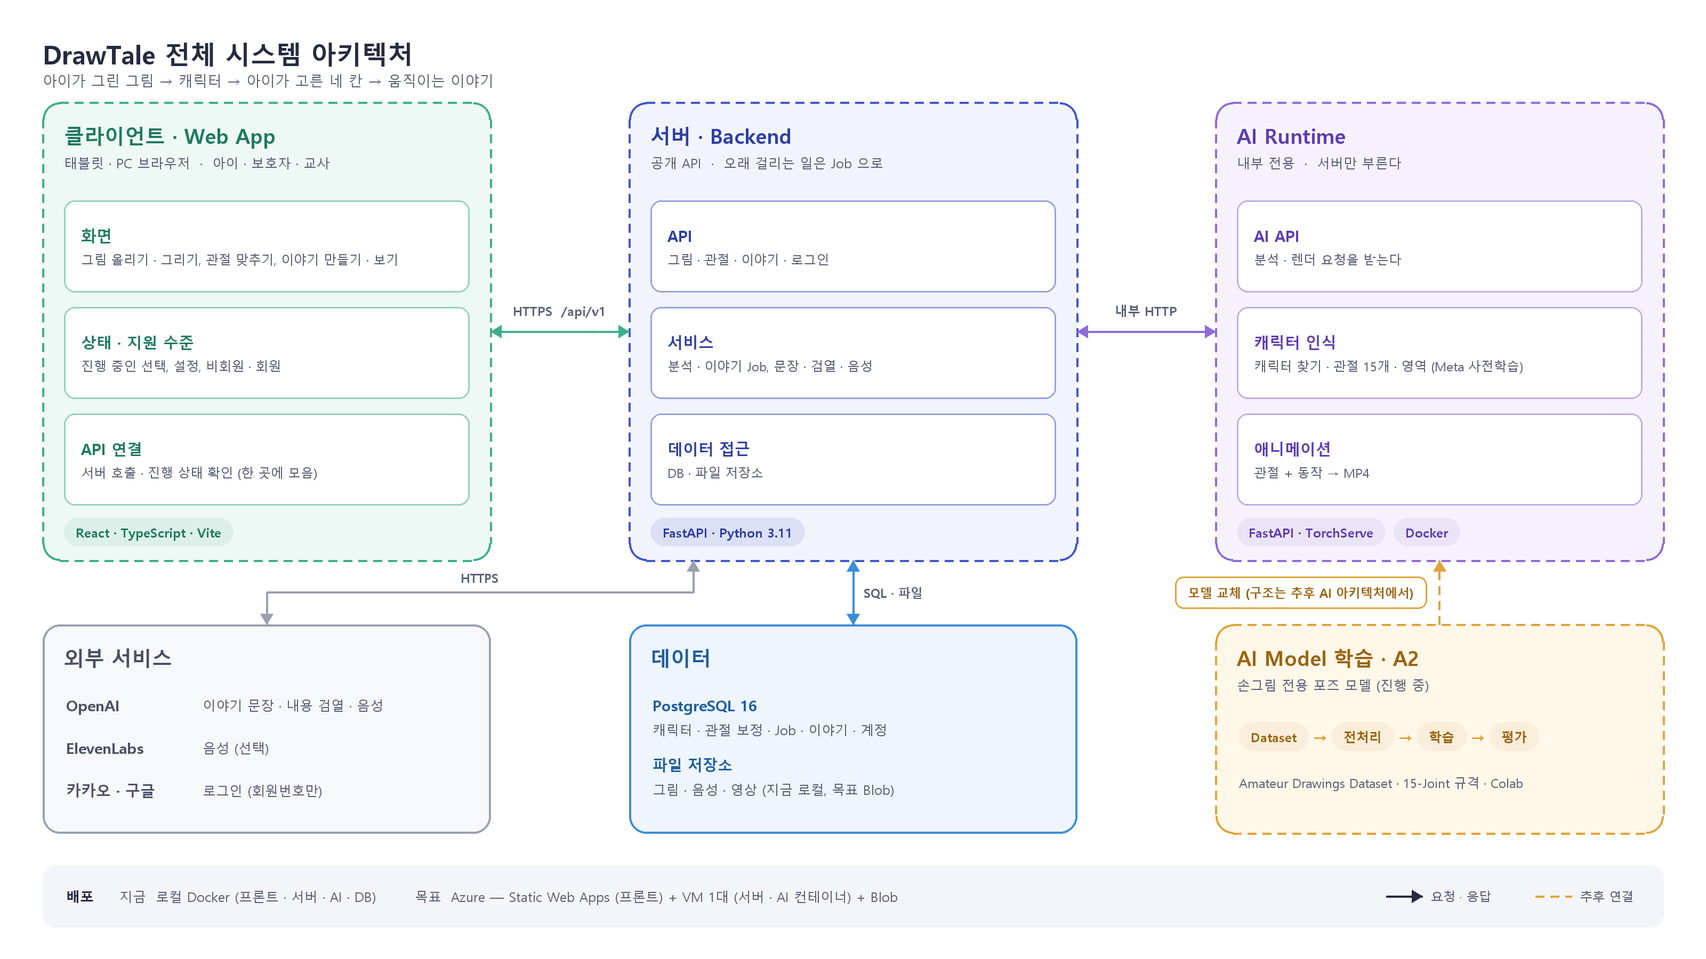
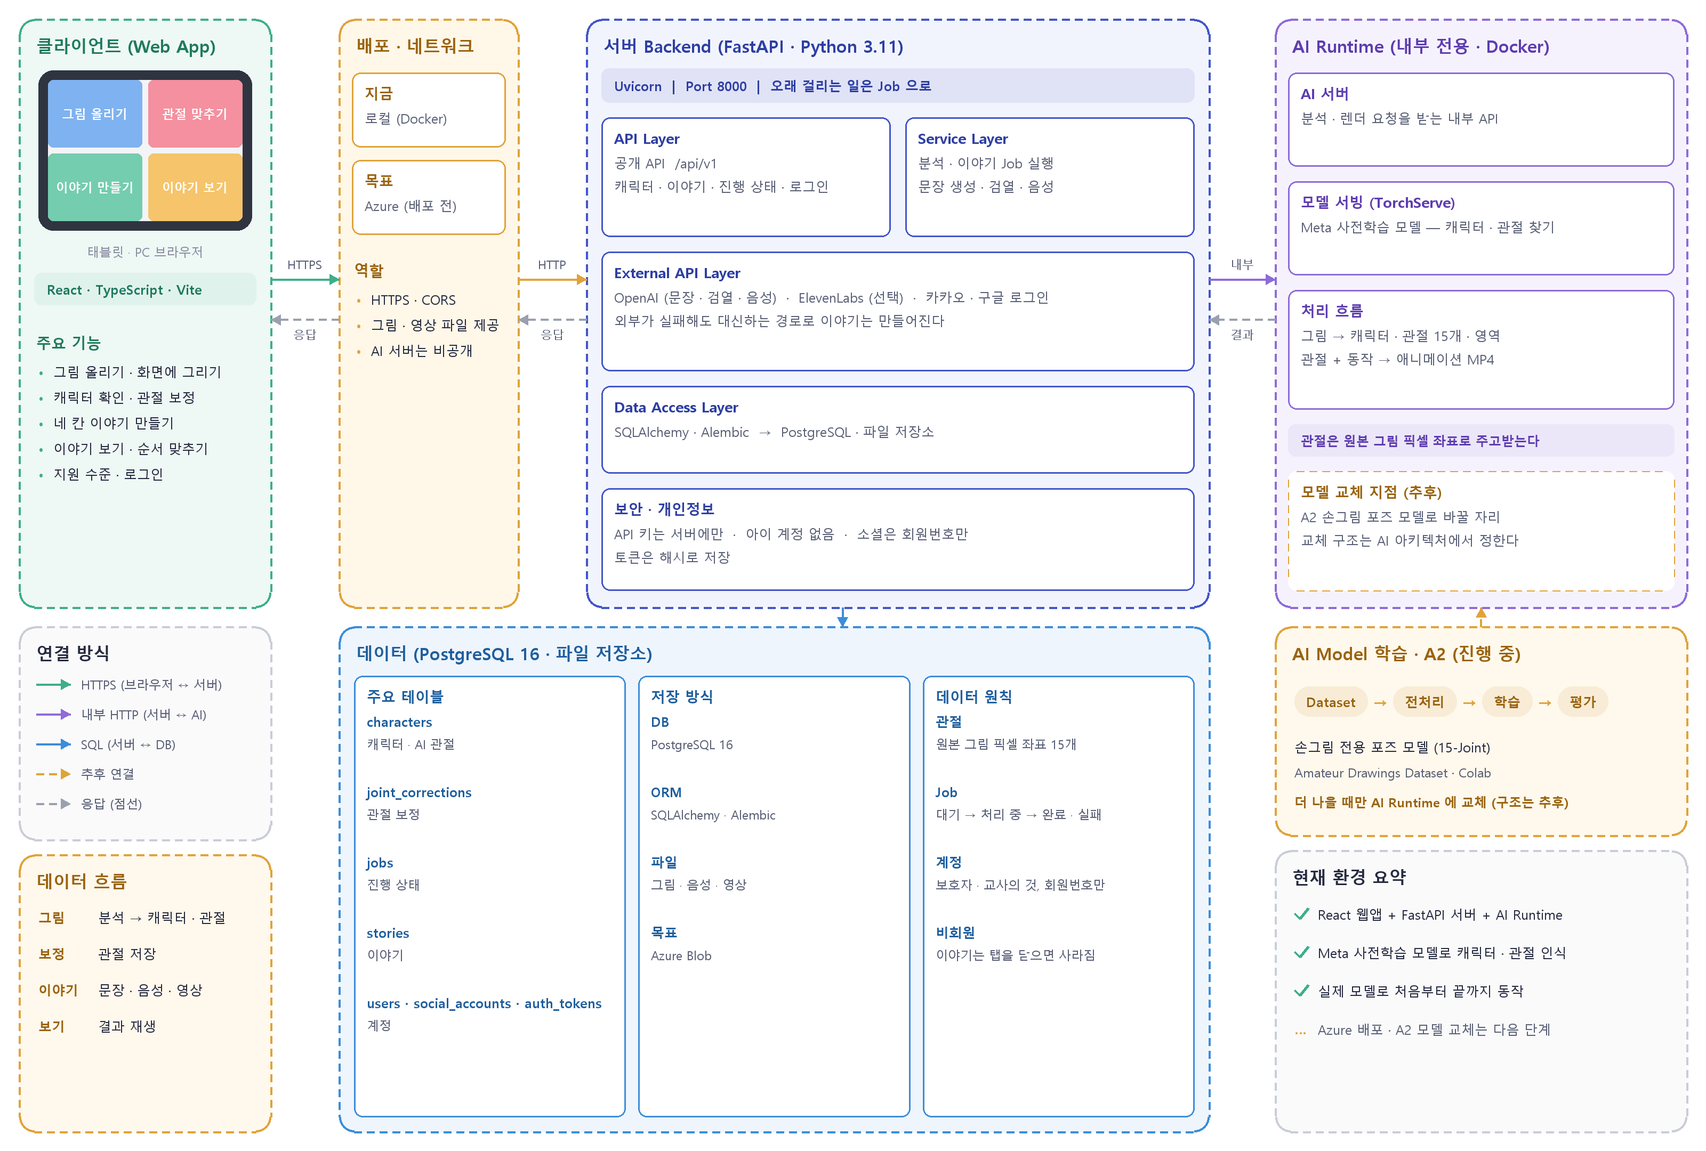
docs: 시스템 아키텍처를 처음 포스터 구조로 되돌리고 칸마다 큰 틀만
- 클라이언트 · 배포/네트워크 · 서버 계층(API · Service · External API · Data Access · 보안) · AI Runtime ·
  데이터 · 연결 방식 · 데이터 흐름 · 환경 요약 구조는 유지
- 엔드포인트 · 모듈 이름 · 컬럼 · 처리 시간 같은 세부 나열은 빼고 한두 줄 설명으로
- AI Model 학습(A2)을 오른쪽 아래에 넣고, AI Runtime 안에 「모델 교체 지점 (추후)」 점선 칸

diff --git a/tools/make_architecture.py b/tools/make_architecture.py
@@ -1,9 +1,9 @@
 """전체 시스템 아키텍처 한 장 그림 (01-system-architecture.md, 발표 자료용).
 
-    python tools/make_architecture.py      # assets/architecture/system-architecture.png (16:9)
+    python tools/make_architecture.py      # assets/architecture/system-architecture.png
 
-전체 구조가 한눈에 보이도록 영역과 계층만 그린다. 엔드포인트 · 모듈 · 컬럼 같은 세부는 01 문서 본문에 있다.
-교체할 손그림 포즈 모델(A2)의 구조는 아직 정하지 않았다 — 「AI 아키텍처」 문서에서 따로 다룬다.
+영역과 계층은 다 보이게 두되, 칸마다 큰 틀만 적는다. 엔드포인트 · 모듈 · 컬럼 같은 세부는 01 문서 본문에 있다.
+AI Model 학습(A2)이 바꿀 포즈 모델의 구조는 아직 정하지 않았다 — 「08 AI 아키텍처」에서 다룬다.
 """
 
 from functools import lru_cache
@@ -15,17 +15,19 @@ ROOT = Path(__file__).resolve().parent.parent
 OUT = ROOT / "assets" / "architecture"
 
 S = 2
-W, H = 1600, 900
+W, H = 1600, 1080
 
 INK, SOFT, FAINT, WHITE = "#262B40", "#5B6177", "#8A90A3", "#FFFFFF"
 ZONE = {  # 테두리, 바탕, 제목 글자
     "client": ("#3FAE8A", "#EEF8F4", "#1F7A5E"),
+    "net": ("#E0A33B", "#FFF7E8", "#9A6410"),
     "server": ("#4256C8", "#F2F4FD", "#2E3FA3"),
     "ai": ("#8E6BD8", "#F6F2FD", "#5E3DB0"),
-    "model": ("#E0A33B", "#FFF7E8", "#9A6410"),
-    "data": ("#3C8DD9", "#EEF5FC", "#1F5F9E"),
-    "ext": ("#9AA0AE", "#F7F8FA", "#4A5065"),
+    "db": ("#3C8DD9", "#EEF5FC", "#1F5F9E"),
+    "model": ("#E0A33B", "#FFF8EC", "#9A6410"),
+    "plain": ("#C9CDD6", "#FAFAFB", INK),
 }
+STAGE = ["#7FB2F0", "#F4909F", "#74CDAE", "#F5C46B"]
 
 FONT_DIRS = [Path("C:/Windows/Fonts"), Path("/usr/share/fonts/truetype/nanum"), Path("/Library/Fonts")]
 FONT_FILES = {False: ["malgun.ttf", "NanumGothic.ttf"], True: ["malgunbd.ttf", "NanumGothicBold.ttf"]}
@@ -46,7 +48,11 @@ P = lambda x, y: (x * S, y * S)
 B = lambda x, y, w, h: [x * S, y * S, (x + w) * S, (y + h) * S]
 
 
-def text(x, y, s, size=14, bold=False, color=INK, anchor="la"):
+def tw(s, size, bold=False):
+    return d.textlength(s, font=font(size, bold)) / S
+
+
+def text(x, y, s, size=13, bold=False, color=INK, anchor="la"):
     d.text(P(x, y), s, font=font(size, bold), fill=color, anchor=anchor)
 
 
@@ -55,7 +61,7 @@ def blend(hexcolor, a):
     return tuple(int(255 + (v - 255) * a) for v in c)
 
 
-def dashes(x1, y1, x2, y2, color, width=2, on=8, off=6):
+def dashes(x1, y1, x2, y2, color, width=2, on=7, off=5):
     import math
     L = math.hypot(x2 - x1, y2 - y1)
     ux, uy = (x2 - x1) / L, (y2 - y1) / L
@@ -66,144 +72,189 @@ def dashes(x1, y1, x2, y2, color, width=2, on=8, off=6):
         p += on + off
 
 
-def zone(x, y, w, h, kind, title, sub=None, dashed=True):
+def zone(x, y, w, h, kind, title):
     line, fill, tc = ZONE[kind]
-    r = 16
+    r = 14
     d.rounded_rectangle(B(x, y, w, h), radius=r * S, fill=fill)
+    for (a, b, c, e) in ((x + r, y, x + w - r, y), (x + r, y + h, x + w - r, y + h),
+                         (x, y + r, x, y + h - r), (x + w, y + r, x + w, y + h - r)):
+        dashes(a, b, c, e, line)
+    for (cx, cy, a0) in ((x, y, 180), (x + w - 2 * r, y, 270), (x + w - 2 * r, y + h - 2 * r, 0), (x, y + h - 2 * r, 90)):
+        d.arc(B(cx, cy, 2 * r, 2 * r), a0, a0 + 90, fill=line, width=2 * S)
+    text(x + 16, y + 14, title, 16, True, tc)
+
+
+def box(x, y, w, h, kind, title, lines=(), dashed=False, size=12.5):
+    """계층 하나. 제목 + 큰 틀 한두 줄"""
+    line, _, tc = ZONE[kind]
     if dashed:
-        for (a, b, c, e) in ((x + r, y, x + w - r, y), (x + r, y + h, x + w - r, y + h),
-                             (x, y + r, x, y + h - r), (x + w, y + r, x + w, y + h - r)):
-            dashes(a, b, c, e, line)
-        for (cx, cy, a0) in ((x, y, 180), (x + w - 2 * r, y, 270), (x + w - 2 * r, y + h - 2 * r, 0), (x, y + h - 2 * r, 90)):
-            d.arc(B(cx, cy, 2 * r, 2 * r), a0, a0 + 90, fill=line, width=2 * S)
+        d.rounded_rectangle(B(x, y, w, h), radius=8 * S, fill=WHITE)
+        for (a, b, c, e) in ((x + 8, y, x + w - 8, y), (x + 8, y + h, x + w - 8, y + h), (x, y + 8, x, y + h - 8), (x + w, y + 8, x + w, y + h - 8)):
+            dashes(a, b, c, e, line, 1)
     else:
-        d.rounded_rectangle(B(x, y, w, h), radius=r * S, outline=line, width=2 * S)
-    text(x + 20, y + 18, title, 19, True, tc)
-    if sub:
-        text(x + 20, y + 48, sub, 12.5, False, SOFT)
+        d.rounded_rectangle(B(x, y, w, h), radius=8 * S, fill=WHITE, outline=line, width=int(1.5 * S))
+    text(x + 12, y + 10, title, 13.5, True, tc)
+    for i, ln in enumerate(lines):
+        text(x + 12, y + 34 + i * 22, ln, size, False, SOFT)
 
 
-def layer(x, y, w, h, kind, name, desc):
+def bar(x, y, w, h, kind, s, size=12.5):
     line, _, tc = ZONE[kind]
-    d.rounded_rectangle(B(x, y, w, h), radius=10 * S, fill=WHITE, outline=blend(line, 0.55), width=int(1.5 * S))
-    text(x + 16, y + h / 2 - 10, name, 14.5, True, tc, anchor="lm")
-    text(x + 16, y + h / 2 + 12, desc, 12, False, SOFT, anchor="lm")
+    d.rounded_rectangle(B(x, y, w, h), radius=7 * S, fill=blend(line, 0.16))
+    text(x + 12, y + h / 2, s, size, True, tc, anchor="lm")
 
 
-def chip(x, y, s, kind):
-    line, _, tc = ZONE[kind]
-    w = d.textlength(s, font=font(12, True)) / S + 22
-    d.rounded_rectangle(B(x, y, w, 26), radius=13 * S, fill=blend(line, 0.18))
-    text(x + w / 2, y + 13, s, 12, True, tc, anchor="mm")
-    return w
+def bullets(x, y, rows, kind, size=12.5, gap=24):
+    for i, r in enumerate(rows):
+        text(x, y + i * gap, "•", size, True, ZONE[kind][0])
+        text(x + 14, y + i * gap, r, size, False, INK)
 
 
-def arrow(x1, y1, x2, y2, color, dashed=False, both=False, label=None, lx=None, ly=None, lcolor=SOFT):
-    (dashes if dashed else (lambda a, b, c, e, col, wd=2: d.line([P(a, b), P(c, e)], fill=col, width=wd * S)))(x1, y1, x2, y2, color, 2)
-
-    def head(xa, ya, xb, yb):
-        hd = 10
-        if xb != xa:
-            g = 1 if xb > xa else -1
-            d.polygon([P(xb, yb), P(xb - g * hd, yb - 6), P(xb - g * hd, yb + 6)], fill=color)
-        else:
-            g = 1 if yb > ya else -1
-            d.polygon([P(xb, yb), P(xb - 6, yb - g * hd), P(xb + 6, yb - g * hd)], fill=color)
-    head(x1, y1, x2, y2)
-    if both:
-        head(x2, y2, x1, y1)
+def arrow(x1, y1, x2, y2, color, dashed=False, label=None, ly=None):
+    if dashed:
+        dashes(x1, y1, x2, y2, color, 2)
+    else:
+        d.line([P(x1, y1), P(x2, y2)], fill=color, width=2 * S)
+    hd = 9
+    if x2 != x1:
+        g = 1 if x2 > x1 else -1
+        d.polygon([P(x2, y2), P(x2 - g * hd, y2 - 5), P(x2 - g * hd, y2 + 5)], fill=color)
+    else:
+        g = 1 if y2 > y1 else -1
+        d.polygon([P(x2, y2), P(x2 - 5, y2 - g * hd), P(x2 + 5, y2 - g * hd)], fill=color)
     if label:
-        text(lx if lx is not None else (x1 + x2) / 2, ly if ly is not None else (y1 + y2) / 2 - 16, label, 12, True, lcolor, anchor="mm")
+        text((x1 + x2) / 2, ly, label, 11, False, SOFT, anchor="mm")
 
 
-# ─────────── 위: 서비스가 도는 세 영역 ───────────
-TY, TH = 96, 430
-CX, CWD = 40, 420
-SX, SWD = 590, 420
-AX, AWD = 1140, 420
-LH, LG = 86, 14
-L0 = TY + 92
+def check(x, y, s, ok=True):
+    if ok:  # 맑은 고딕 굵은체에 ✓ 가 없어 선으로 그린다
+        d.line([P(x, y + 9), P(x + 5, y + 14), P(x + 13, y + 4)], fill="#3FAE8A", width=int(2.5 * S), joint="curve")
+    else:
+        text(x, y, "…", 13, True, ZONE["net"][0])
+    text(x + 22, y + 1, s, 12.5, False, INK if ok else SOFT)
 
-text(40, 34, "DrawTale 전체 시스템 아키텍처", 24, True, INK)
-text(40, 66, "아이가 그린 그림 → 캐릭터 → 아이가 고른 네 칸 → 움직이는 이야기", 13.5, False, SOFT)
 
-zone(CX, TY, CWD, TH, "client", "클라이언트 · Web App", "태블릿 · PC 브라우저  ·  아이 · 보호자 · 교사")
-for i, (n, dsc) in enumerate([("화면", "그림 올리기 · 그리기, 관절 맞추기, 이야기 만들기 · 보기"),
-                              ("상태 · 지원 수준", "진행 중인 선택, 설정, 비회원 · 회원"),
-                              ("API 연결", "서버 호출 · 진행 상태 확인 (한 곳에 모음)")]):
-    layer(CX + 20, L0 + i * (LH + LG), CWD - 40, LH, "client", n, dsc)
-chip(CX + 20, TY + TH - 40, "React · TypeScript · Vite", "client")
+# ─────────────── 위 줄 ───────────────
+CX, CW_ = 18, 236
+NX, NW = 318, 168
+SX, SW = 550, 584
+AX, AW = 1196, 386
+TY, TH = 18, 552
 
-zone(SX, TY, SWD, TH, "server", "서버 · Backend", "공개 API  ·  오래 걸리는 일은 Job 으로")
-for i, (n, dsc) in enumerate([("API", "그림 · 관절 · 이야기 · 로그인"),
-                              ("서비스", "분석 · 이야기 Job, 문장 · 검열 · 음성"),
-                              ("데이터 접근", "DB · 파일 저장소")]):
-    layer(SX + 20, L0 + i * (LH + LG), SWD - 40, LH, "server", n, dsc)
-chip(SX + 20, TY + TH - 40, "FastAPI · Python 3.11", "server")
+# 클라이언트
+zone(CX, TY, CW_, TH, "client", "클라이언트 (Web App)")
+dx, dy, dw, dh = CX + 18, TY + 48, CW_ - 36, 150
+d.rounded_rectangle(B(dx, dy, dw, dh), radius=14 * S, fill="#2F3441")
+sx0, sy0, sw0, sh0 = dx + 9, dy + 9, dw - 18, dh - 18
+d.rounded_rectangle(B(sx0, sy0, sw0, sh0), radius=6 * S, fill="#F3F4F7")
+tiles = ["그림 올리기", "관절 맞추기", "이야기 만들기", "이야기 보기"]
+tw2, th2 = (sw0 - 6) / 2, (sh0 - 6) / 2
+for i, nm in enumerate(tiles):
+    tx, ty = sx0 + (i % 2) * (tw2 + 6), sy0 + (i // 2) * (th2 + 6)
+    d.rounded_rectangle(B(tx, ty, tw2, th2), radius=5 * S, fill=STAGE[i])
+    text(tx + tw2 / 2, ty + th2 / 2, nm, 11.5, True, WHITE, anchor="mm")
+text(CX + CW_ / 2, dy + dh + 12, "태블릿 · PC 브라우저", 11.5, False, FAINT, anchor="ma")
+bar(CX + 14, dy + dh + 40, CW_ - 28, 30, "client", "React · TypeScript · Vite")
+text(CX + 16, dy + dh + 96, "주요 기능", 14, True, ZONE["client"][2])
+bullets(CX + 18, dy + dh + 124, ["그림 올리기 · 화면에 그리기", "캐릭터 확인 · 관절 보정", "네 칸 이야기 만들기", "이야기 보기 · 순서 맞추기", "지원 수준 · 로그인"], "client")
 
-zone(AX, TY, AWD, TH, "ai", "AI Runtime", "내부 전용  ·  서버만 부른다")
-for i, (n, dsc) in enumerate([("AI API", "분석 · 렌더 요청을 받는다"),
-                              ("캐릭터 인식", "캐릭터 찾기 · 관절 15개 · 영역 (Meta 사전학습)"),
-                              ("애니메이션", "관절 + 동작 → MP4")]):
-    layer(AX + 20, L0 + i * (LH + LG), AWD - 40, LH, "ai", n, dsc)
-w1 = chip(AX + 20, TY + TH - 40, "FastAPI · TorchServe", "ai")
-chip(AX + 28 + w1, TY + TH - 40, "Docker", "ai")
+# 배포 · 네트워크
+zone(NX, TY, NW, TH, "net", "배포 · 네트워크")
+box(NX + 12, TY + 50, NW - 24, 70, "net", "지금", ["로컬 (Docker)"])
+box(NX + 12, TY + 132, NW - 24, 70, "net", "목표", ["Azure (배포 전)"])
+text(NX + 14, TY + 226, "역할", 14, True, ZONE["net"][2])
+bullets(NX + 16, TY + 254, ["HTTPS · CORS", "그림 · 영상 파일 제공", "AI 서버는 비공개"], "net")
 
-# 위 화살표
-arrow(CX + CWD, TY + 215, SX, TY + 215, ZONE["client"][0], both=True, label="HTTPS  /api/v1", ly=TY + 195)
-arrow(SX + SWD, TY + 215, AX, TY + 215, ZONE["ai"][0], both=True, label="내부 HTTP", ly=TY + 195)
+# 서버
+zone(SX, TY, SW, TH, "server", "서버 Backend (FastAPI · Python 3.11)")
+bar(SX + 14, TY + 46, SW - 28, 32, "server", "Uvicorn  |  Port 8000  |  오래 걸리는 일은 Job 으로")
+hw = (SW - 28 - 14) / 2
+box(SX + 14, TY + 92, hw, 112, "server", "API Layer", ["공개 API  /api/v1", "캐릭터 · 이야기 · 진행 상태 · 로그인"])
+box(SX + 28 + hw, TY + 92, hw, 112, "server", "Service Layer", ["분석 · 이야기 Job 실행", "문장 생성 · 검열 · 음성"])
+box(SX + 14, TY + 218, SW - 28, 112, "server", "External API Layer",
+    ["OpenAI (문장 · 검열 · 음성)  ·  ElevenLabs (선택)  ·  카카오 · 구글 로그인", "외부가 실패해도 대신하는 경로로 이야기는 만들어진다"])
+box(SX + 14, TY + 344, SW - 28, 82, "server", "Data Access Layer", ["SQLAlchemy · Alembic  →  PostgreSQL · 파일 저장소"])
+box(SX + 14, TY + 440, SW - 28, 96, "server", "보안 · 개인정보", ["API 키는 서버에만  ·  아이 계정 없음  ·  소셜은 회원번호만", "토큰은 해시로 저장"])
 
-# ─────────── 아래: 함께 쓰는 것 (위 칸과 같은 열) ───────────
-BY, BH = 586, 196
-zone(CX, BY, CWD, BH, "ext", "외부 서비스", None, dashed=False)
-for i, (n, dsc) in enumerate([("OpenAI", "이야기 문장 · 내용 검열 · 음성"), ("ElevenLabs", "음성 (선택)"), ("카카오 · 구글", "로그인 (회원번호만)")]):
-    y = BY + 66 + i * 40
-    text(CX + 22, y, n, 14, True, ZONE["ext"][2])
-    text(CX + 150, y + 1, dsc, 12.5, False, SOFT)
+# AI Runtime
+zone(AX, TY, AW, TH, "ai", "AI Runtime (내부 전용 · Docker)")
+box(AX + 12, TY + 50, AW - 24, 88, "ai", "AI 서버", ["분석 · 렌더 요청을 받는 내부 API"])
+box(AX + 12, TY + 152, AW - 24, 88, "ai", "모델 서빙 (TorchServe)", ["Meta 사전학습 모델 — 캐릭터 · 관절 찾기"])
+box(AX + 12, TY + 254, AW - 24, 112, "ai", "처리 흐름", ["그림 → 캐릭터 · 관절 15개 · 영역", "관절 + 동작 → 애니메이션 MP4"])
+bar(AX + 12, TY + 380, AW - 24, 30, "ai", "관절은 원본 그림 픽셀 좌표로 주고받는다", 12)
+box(AX + 12, TY + 424, AW - 24, 112, "model", "모델 교체 지점 (추후)",
+    ["A2 손그림 포즈 모델로 바꿀 자리", "교체 구조는 AI 아키텍처에서 정한다"], dashed=True)
 
-zone(SX, BY, SWD, BH, "data", "데이터", None, dashed=False)
-for i, (n, dsc) in enumerate([("PostgreSQL 16", "캐릭터 · 관절 보정 · Job · 이야기 · 계정"), ("파일 저장소", "그림 · 음성 · 영상 (지금 로컬, 목표 Blob)")]):
-    y = BY + 66 + i * 56
-    text(SX + 22, y, n, 14, True, ZONE["data"][2])
-    text(SX + 22, y + 24, dsc, 12.5, False, SOFT)
+# 위 줄 화살표
+arrow(CX + CW_, 262, NX, 262, ZONE["client"][0], label="HTTPS", ly=248)
+arrow(NX, 300, CX + CW_, 300, "#9AA0AE", dashed=True, label="응답", ly=314)
+arrow(NX + NW, 262, SX, 262, ZONE["net"][0], label="HTTP", ly=248)
+arrow(SX, 300, NX + NW, 300, "#9AA0AE", dashed=True, label="응답", ly=314)
+arrow(SX + SW, 262, AX, 262, ZONE["ai"][0], label="내부", ly=248)
+arrow(AX, 300, SX + SW, 300, "#9AA0AE", dashed=True, label="결과", ly=314)
 
-zone(AX, BY, AWD, BH, "model", "AI Model 학습 · A2", "손그림 전용 포즈 모델 (진행 중)")
-sx = AX + 22
+# ─────────────── 아래 줄 ───────────────
+BY = 588
+BH = H - 18 - BY
+zone(CX, BY, CW_, 200, "plain", "연결 방식")
+leg = [(ZONE["client"][0], False, "HTTPS (브라우저 ↔ 서버)"), (ZONE["ai"][0], False, "내부 HTTP (서버 ↔ AI)"),
+       (ZONE["db"][0], False, "SQL (서버 ↔ DB)"), (ZONE["model"][0], True, "추후 연결"), ("#9AA0AE", True, "응답 (점선)")]
+for i, (col, dsh, lbl) in enumerate(leg):
+    yy = BY + 54 + i * 28
+    arrow(CX + 16, yy, CX + 48, yy, col, dashed=dsh)
+    text(CX + 58, yy, lbl, 11.5, False, SOFT, anchor="lm")
+
+zone(CX, BY + 214, CW_, BH - 214, "model", "데이터 흐름")
+for i, (k, v) in enumerate([("그림", "분석 → 캐릭터 · 관절"), ("보정", "관절 저장"), ("이야기", "문장 · 음성 · 영상"), ("보기", "결과 재생")]):
+    yy = BY + 214 + 50 + i * 34
+    text(CX + 18, yy, k, 12.5, True, ZONE["model"][2])
+    text(CX + 74, yy, v, 12.5, False, INK)
+
+zone(NX, BY, SX + SW - NX, BH, "db", "데이터 (PostgreSQL 16 · 파일 저장소)")
+pw = (SX + SW - NX - 28 - 24) / 3
+px0 = NX + 14
+box(px0, BY + 46, pw, BH - 60, "db", "주요 테이블")
+for i, (t, sub) in enumerate([("characters", "캐릭터 · AI 관절"), ("joint_corrections", "관절 보정"), ("jobs", "진행 상태"),
+                              ("stories", "이야기"), ("users · social_accounts · auth_tokens", "계정")]):
+    yy = BY + 80 + i * 66
+    text(px0 + 12, yy, t, 12.5, True, ZONE["db"][2])
+    text(px0 + 12, yy + 22, sub, 11.5, False, SOFT)
+px1 = px0 + pw + 12
+box(px1, BY + 46, pw, BH - 60, "db", "저장 방식")
+for i, (k, v) in enumerate([("DB", "PostgreSQL 16"), ("ORM", "SQLAlchemy · Alembic"), ("파일", "그림 · 음성 · 영상"), ("목표", "Azure Blob")]):
+    yy = BY + 80 + i * 66
+    text(px1 + 12, yy, k, 12.5, True, ZONE["db"][2])
+    text(px1 + 12, yy + 22, v, 11.5, False, SOFT)
+px2 = px1 + pw + 12
+box(px2, BY + 46, pw, BH - 60, "db", "데이터 원칙")
+for i, (k, v) in enumerate([("관절", "원본 그림 픽셀 좌표 15개"), ("Job", "대기 → 처리 중 → 완료 · 실패"), ("계정", "보호자 · 교사의 것, 회원번호만"),
+                            ("비회원", "이야기는 탭을 닫으면 사라짐")]):
+    yy = BY + 80 + i * 66
+    text(px2 + 12, yy, k, 12.5, True, ZONE["db"][2])
+    text(px2 + 12, yy + 22, v, 11.5, False, SOFT)
+arrow(SX + 240, TY + TH, SX + 240, BY, ZONE["db"][0])
+
+# 오른쪽 아래: A2 학습 + 환경 요약
+zone(AX, BY, AW, 196, "model", "AI Model 학습 · A2 (진행 중)")
+sx = AX + 18
 for i, st in enumerate(["Dataset", "전처리", "학습", "평가"]):
-    w = chip(sx, BY + 92, st, "model")
+    w = tw(st, 12.5, True) + 22
+    d.rounded_rectangle(B(sx, BY + 56, w, 28), radius=14 * S, fill=blend(ZONE["model"][0], 0.2))
+    text(sx + w / 2, BY + 70, st, 12.5, True, ZONE["model"][2], anchor="mm")
     sx += w
     if i < 3:
-        text(sx + 11, BY + 105, "→", 14, True, ZONE["model"][0], anchor="mm")
-        sx += 22
-text(AX + 22, BY + 140, "Amateur Drawings Dataset · 15-Joint 규격 · Colab", 12, False, SOFT)
+        text(sx + 12, BY + 70, "→", 14, True, ZONE["model"][0], anchor="mm")
+        sx += 24
+text(AX + 18, BY + 104, "손그림 전용 포즈 모델 (15-Joint)", 12.5, False, INK)
+text(AX + 18, BY + 128, "Amateur Drawings Dataset · Colab", 12, False, SOFT)
+text(AX + 18, BY + 156, "더 나을 때만 AI Runtime 에 교체 (구조는 추후)", 12, True, ZONE["model"][2])
+dashes(AX + AW / 2, BY, AX + AW / 2, TY + TH, ZONE["model"][0])
+d.polygon([P(AX + AW / 2, TY + TH), P(AX + AW / 2 - 5, TY + TH + 9), P(AX + AW / 2 + 5, TY + TH + 9)], fill=ZONE["model"][0])
 
-# 아래 화살표
-ec = ZONE["ext"][0]
-gy = (TY + TH + BY) / 2                                                # 위아래 줄 사이 빈 공간으로만 지난다
-ex = CX + CWD / 2
-d.line([P(SX + 60, TY + TH), P(SX + 60, gy), P(ex, gy)], fill=ec, width=2 * S)
-arrow(ex, gy, ex, BY, ec)
-d.polygon([P(SX + 60, TY + TH), P(SX + 54, TY + TH + 10), P(SX + 66, TY + TH + 10)], fill=ec)
-text((ex + SX + 60) / 2, gy - 14, "HTTPS", 11.5, True, SOFT, anchor="mm")
-arrow(SX + SWD / 2, TY + TH, SX + SWD / 2, BY, ZONE["data"][0], both=True)
-text(SX + SWD / 2 + 10, (TY + TH + BY) / 2, "SQL · 파일", 11.5, True, SOFT, anchor="lm")
-arrow(AX + AWD / 2, BY, AX + AWD / 2, TY + TH, ZONE["model"][0], dashed=True)
-lw_ = d.textlength("모델 교체 (구조는 추후 AI 아키텍처에서)", font=font(11.5, True)) / S + 24
-d.rounded_rectangle(B(AX + AWD / 2 - 12 - lw_, (TY + TH + BY) / 2 - 15, lw_, 30), radius=8 * S, fill=WHITE,
-                    outline=ZONE["model"][0], width=int(1.5 * S))
-text(AX + AWD / 2 - lw_, (TY + TH + BY) / 2, "모델 교체 (구조는 추후 AI 아키텍처에서)", 11.5, True, ZONE["model"][2], anchor="lm")
-
-# ─────────── 맨 아래: 배포 · 범례 ───────────
-FY = 812
-d.rounded_rectangle(B(40, FY, W - 80, 58), radius=12 * S, fill="#F4F5F8")
-text(62, FY + 29, "배포", 13, True, INK, anchor="lm")
-text(112, FY + 29, "지금  로컬 Docker (프론트 · 서버 · AI · DB)        목표  Azure — Static Web Apps (프론트) + VM 1대 (서버 · AI 컨테이너) + Blob",
-     12.5, False, SOFT, anchor="lm")
-lx = W - 300
-arrow(lx, FY + 29, lx + 34, FY + 29, INK)
-text(lx + 42, FY + 29, "요청 · 응답", 11.5, False, SOFT, anchor="lm")
-dashes(lx + 140, FY + 29, lx + 174, FY + 29, ZONE["model"][0])
-text(lx + 182, FY + 29, "추후 연결", 11.5, False, SOFT, anchor="lm")
+zone(AX, BY + 210, AW, BH - 210, "plain", "현재 환경 요약")
+for i, (sline, ok) in enumerate([("React 웹앱 + FastAPI 서버 + AI Runtime", True), ("Meta 사전학습 모델로 캐릭터 · 관절 인식", True),
+                                 ("실제 모델로 처음부터 끝까지 동작", True), ("Azure 배포 · A2 모델 교체는 다음 단계", False)]):
+    check(AX + 18, BY + 210 + 50 + i * 36, sline, ok)
 
 OUT.mkdir(parents=True, exist_ok=True)
 img.save(OUT / "system-architecture.png", optimize=True)

diff --git a/01-system-architecture.md b/01-system-architecture.md
@@ -9,7 +9,7 @@
 
 ![DrawTale 시스템 아키텍처](assets/architecture/system-architecture.png)
 
-전체 구조가 한눈에 보이도록 **영역과 계층만** 그린 한 장이다 (16:9, `tools/make_architecture.py`). 엔드포인트 · 모듈 · 테이블 같은 세부는 아래 본문에 있다. AI Model 학습(A2)이 바꿀 포즈 모델의 구조는 아직 정하지 않아, 그림에는 「모델 교체」 연결만 두었다 — 「08 AI 아키텍처」에서 다룬다.
+영역 · 계층 · 연결은 다 보이게 두고 **칸마다 큰 틀만** 적은 한 장이다 (`tools/make_architecture.py`). 엔드포인트 · 모듈 · 테이블 컬럼 같은 세부는 아래 본문에 있다. AI Model 학습(A2)이 바꿀 포즈 모델의 구조는 아직 정하지 않아, 그림에는 「모델 교체 지점 (추후)」만 두었다 — 「08 AI 아키텍처」에서 다룬다.
 
 ## 한 줄 요약
 
